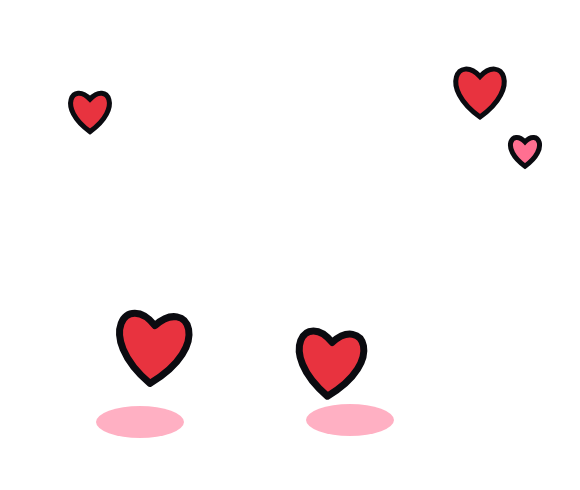
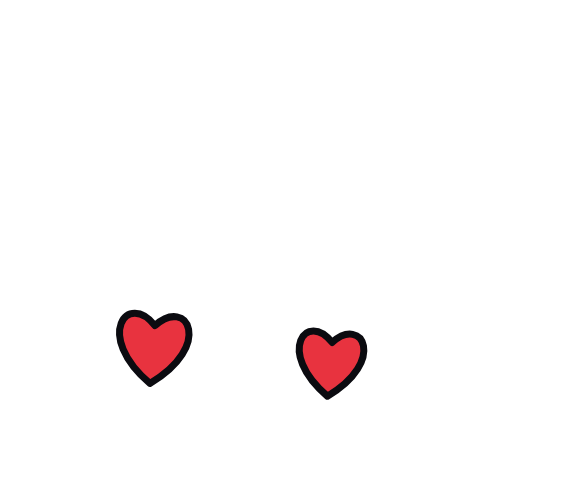
Poz küçük resimleri ve ayrı İşaretler katmanı geri geldi
Claude-Session: https://claude.ai/code/session_016dSUtrNcGtDLyBLVobBuhL

diff --git a/scripts/build-wardencb-pack.tsx b/scripts/build-wardencb-pack.tsx
@@ -21,7 +21,7 @@ const WCB = 'packs/hazir/wardencb', GOV = 'packs/hazir/govdeler', GOZ = 'packs/h
 // Pozlar: projeye bütün gibi gelir ama ayrı katmanlardır (alttan üste). Çizgi kök; arka kulak ushankayı takip eder.
 const CHAR_PARTS = (fx: boolean): Part[] => [
   { name: 'Ushanka Arka Kulak', layers: ['hatBack'], parent: 4 }, { name: 'İç', layers: ['fill'] }, { name: 'Çizgi', layers: ['line'] },
-  { name: 'Göz', layers: fx ? ['eyes', 'fx'] : ['eyes'] }, { name: 'Ushanka', layers: ['hat'] },
+  { name: 'Göz', layers: ['eyes'] }, { name: 'Ushanka', layers: ['hat'] }, ...(fx ? [{ name: 'İşaretler', layers: ['fx'] as WcbLayer[] }] : []),
 ];
 const items: Item[] = [];
 for (const [k, p] of Object.entries(POSES)) if (k !== 'point') items.push({ folder: 'Pozlar', name: p.name, mood: k as Mood, parts: CHAR_PARTS(!!(p as { fx?: unknown[] }).fx?.length), root: 2, dir: WCB });
@@ -57,14 +57,13 @@ const shot = async (it: Item, layers: WcbLayer[], file: string) => {
 };
 for (const it of items) {
   const base = it.file ?? `${slug(it.folder)}-${slug(it.name)}`;
-  // Çok parçalı öğelerin ayrı küçük resmi yok: arayüz parçaları üst üste koyarak gösterir
-  const out: Out = { name: it.name, src: '' };
+  // Küçük resim: bütün parçalar birlikte
+  const out: Out = { name: it.name, src: await shot(it, it.parts.flatMap((p) => p.layers), `${base}.png`) };
   if (it.parts.length > 1) {
     out.parts = [];
     for (const pt of it.parts) out.parts.push({ name: pt.name, src: await shot(it, pt.layers, `${base}--${slug(pt.name)}.png`), ...(pt.back ? { back: true } : {}), ...(pt.parent !== undefined ? { parent: pt.parent } : {}) });
     out.root = it.root ?? 0;
-    out.src = out.parts[out.root].src;
-  } else out.src = await shot(it, it.parts[0].layers, `${base}.png`);
+  }
   if (!folders.has(it.folder)) folders.set(it.folder, []);
   folders.get(it.folder)!.push(out);
 }

diff --git a/src/components/Panels.tsx b/src/components/Panels.tsx
@@ -366,7 +366,7 @@ function CBTab({ onPick, onBody, toast }: { onPick: (it: PackItem) => void; onBo
         ) : (
           <>
             <button className="thumb" style={{ width: '100%' }} aria-label={it.name} onClick={() => !edit && onPick(it)}>
-              {it.parts ? <span className="pstack">{it.parts.map((pt) => <Img key={pt.src} src={pt.src} alt="" />)}</span> : <Img src={it.src} alt="" />}
+              <Img src={it.src} alt="" />
               {edit && it.id && <span className="x" role="button" aria-label={`${it.name} sil`} onClick={async (e) => { e.stopPropagation(); await removeUserPackItem(it.id!); refresh(); }}><Icon name="close" size={14} stroke={2.4} /></span>}
             </button>
             <div className="tlabel">{it.name}</div>
